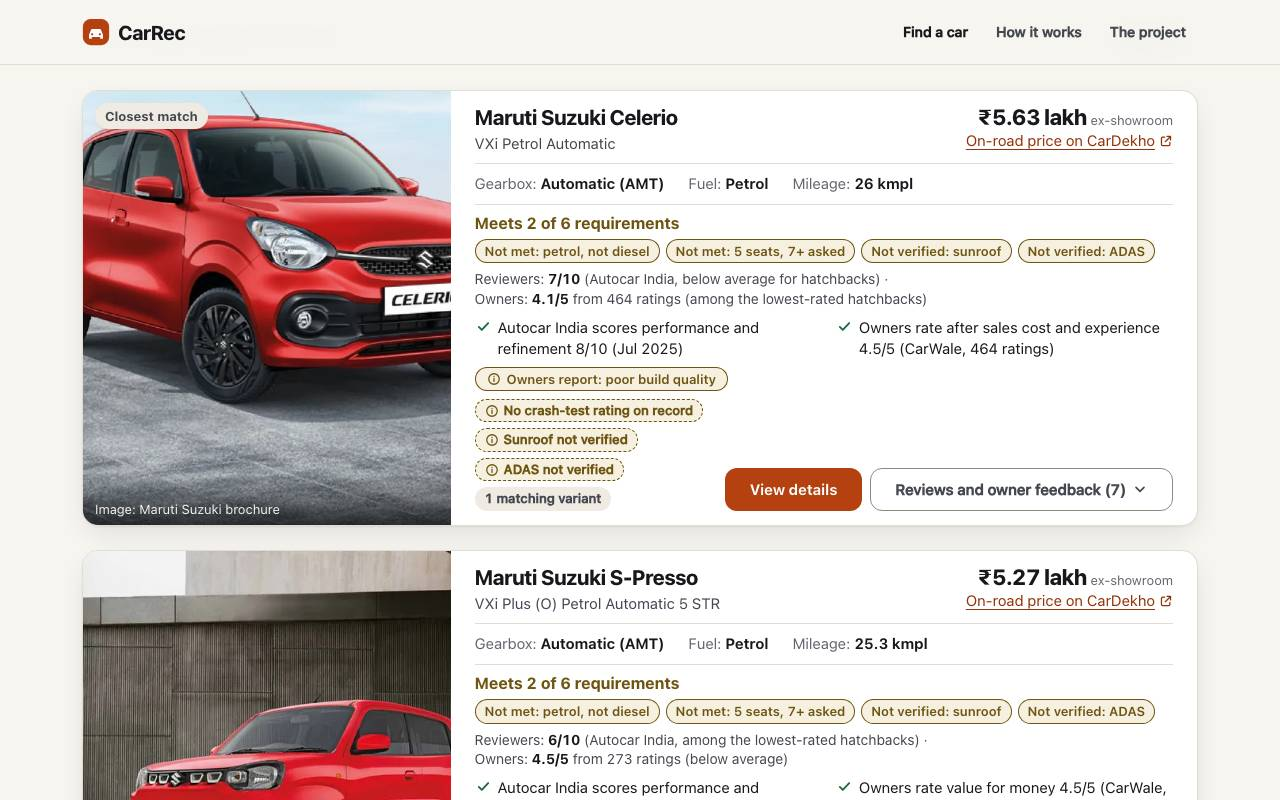
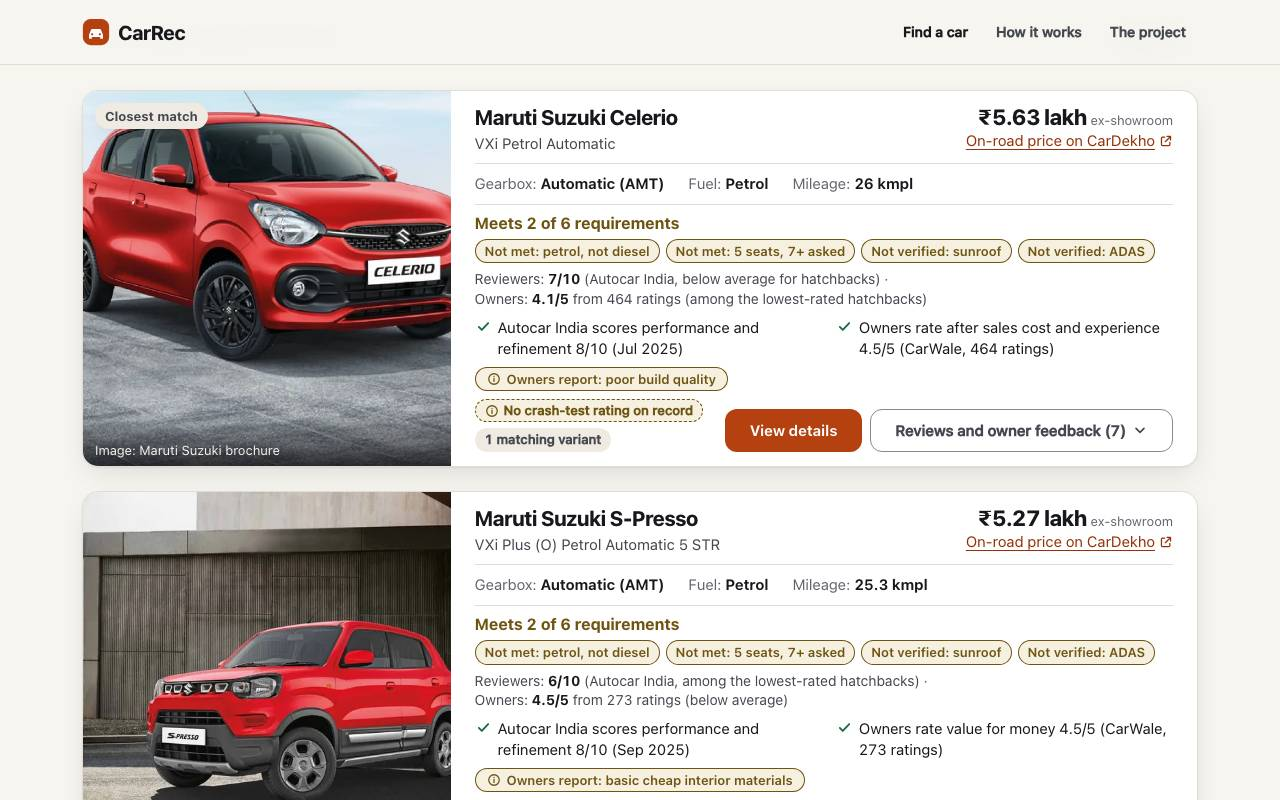
ui: an unverified requirement is named once (match-label pill), not repeated as a chip; after screenshots retaken

Changed region(s): [[0.0625, 0.125, 0.9375, 1.0], [0.625, 0.7188, 0.7188, 0.75]]

diff --git a/static/script.js b/static/script.js
@@ -681,7 +681,9 @@ function buildCaveatPill(car) {
     return `<p class="caveat-pill" title="${escapeHtml(text)}">${ICONS.info}<span>${escapeHtml(text)}</span></p>`;
 }
 
-function v3Chips(car) {
+// unverified requirements are already named as pills under the match label on personalised cards; repeat them here
+// only when no match label lists them (general, non-personalised picks)
+function v3Chips(car, personalised) {
     const chips = [];
     (car.matched_features || []).forEach(f => chips.push({ text: FEATURE_LABELS[f] || f, kind: "feature", icon: ICONS.check }));
     const notVerified = car.not_verified || [];
@@ -691,7 +693,7 @@ function v3Chips(car) {
     } else if (!notVerified.some(t => /crash rating/i.test(t))) {
         chips.push({ text: NO_RATING_LABEL, kind: "unverified", icon: ICONS.info });
     }
-    notVerified.forEach(t => chips.push({ text: upperFirst(t), kind: "unverified", icon: ICONS.info }));
+    if (personalised === false) notVerified.forEach(t => chips.push({ text: upperFirst(t), kind: "unverified", icon: ICONS.info }));
     if (car.matching_variant_count) {
         const n = car.matching_variant_count;
         chips.push({ text: `${n} matching variant${n === 1 ? "" : "s"}`, kind: "plain", icon: "" });
@@ -713,7 +715,7 @@ function buildV3Card(car, index, hard, personalised) {
         ? `<p class="also">Also available from <strong>${formatPrice(also["Ex-Showroom_Price"])}</strong>${also.variant ? ` (${escapeHtml(also.variant)})` : ""}</p>` : "";
     const detail = Array.isArray(label.detail) && label.detail.length
         ? `<ul class="unmet" aria-label="Requirements this car does not meet or could not confirm">${label.detail.map(d => `<li>${escapeHtml(d)}</li>`).join("")}</ul>` : "";
-    const chips = v3Chips(car);
+    const chips = v3Chips(car, personalised);
     const behind = behindCount(car);
     const reviewsId = `reviews-${++reviewsSeq}`;
     const why = car.explanation_rag ? buildWhyRag(car, reasons, reviewsId)

diff --git a/tests/test_v3_frontend.py b/tests/test_v3_frontend.py
@@ -164,8 +164,14 @@ def test_match_wording_comes_from_data_not_great_match():
 def test_not_verified_tags_and_also_available_from():
     html = render(response([car(not_verified=["ground clearance not verified"],
                                 also_available_from={"variant_id": 3, "variant": "Smart Lite", "Ex-Showroom_Price": 700000.0})]))
-    assert "Ground clearance not verified" in html and "tag--unverified" in html
+    # personalised card: named once, as a pill under the match label, not repeated as a chip
+    assert "Not verified: ground clearance" in html and "Ground clearance not verified" not in html
     assert "Also available from" in html and "Smart Lite" in html and "₹7 lakh" in html
+
+
+def test_not_verified_chip_only_on_general_picks():
+    html = render(response([car(not_verified=["ground clearance not verified"])], personalised=False))
+    assert "Ground clearance not verified" in html and "tag--unverified" in html
 
 
 def test_query_echo_marks_assumed_and_corrected_values():
